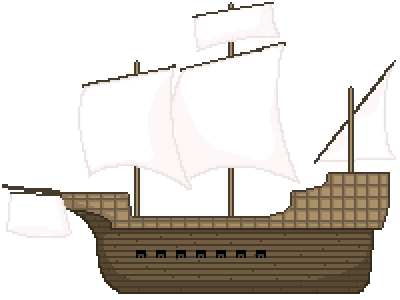
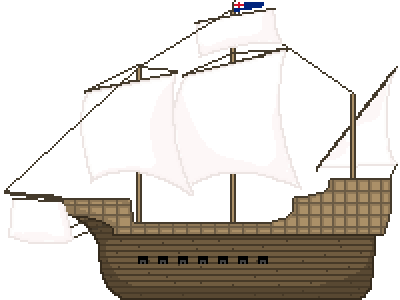
new mainmenu bg, better ship visual

diff --git a/src/js/desk.js b/src/js/desk.js
@@ -98,7 +98,7 @@ namespace("PXTree.AchtzehnKnoten", function (AK)
 		shipgrp.create(0, 0, 'ship-avatar-bg');
 		
 		if (this.captain === null){
-			this.captain = shipgrp.create(70,180,'small-captain-'+this.stats.get('player.nationality'));
+			this.captain = shipgrp.create(70,185,'small-captain-'+this.stats.get('player.nationality'));
 			this.captain.animations.add('idle_breath',[14,15,16,17,18,19],4,false);
 			this.captain.animations.add('idle_telescope',[0,1,2,3,4,5,6,7,8,9,10,11,12,13],4,false);
 			this.captain.animations.play('idle_breath');
@@ -108,7 +108,7 @@ namespace("PXTree.AchtzehnKnoten", function (AK)
 		if (this.sailors === null) {		
 			this.sailors = this.game.make.group();
 			shipgrp.add(this.sailors);
-			this.sailors.position.set(120,200);
+			this.sailors.position.set(120,205);
 			
 			//Sailor Handler
 			this.top.stats.registerValueChangedHandler('player.crewCount', this.updateSailors, this);
@@ -118,7 +118,7 @@ namespace("PXTree.AchtzehnKnoten", function (AK)
 		if (this.strength === null) {		
 			this.strength = this.game.make.group();
 			shipgrp.add(this.strength);
-			this.strength.position.set(120,200);
+			this.strength.position.set(120,205);
 			
 			//Sailor Handler
 			this.top.stats.registerValueChangedHandler('player.strength', this.updateStrength, this);
